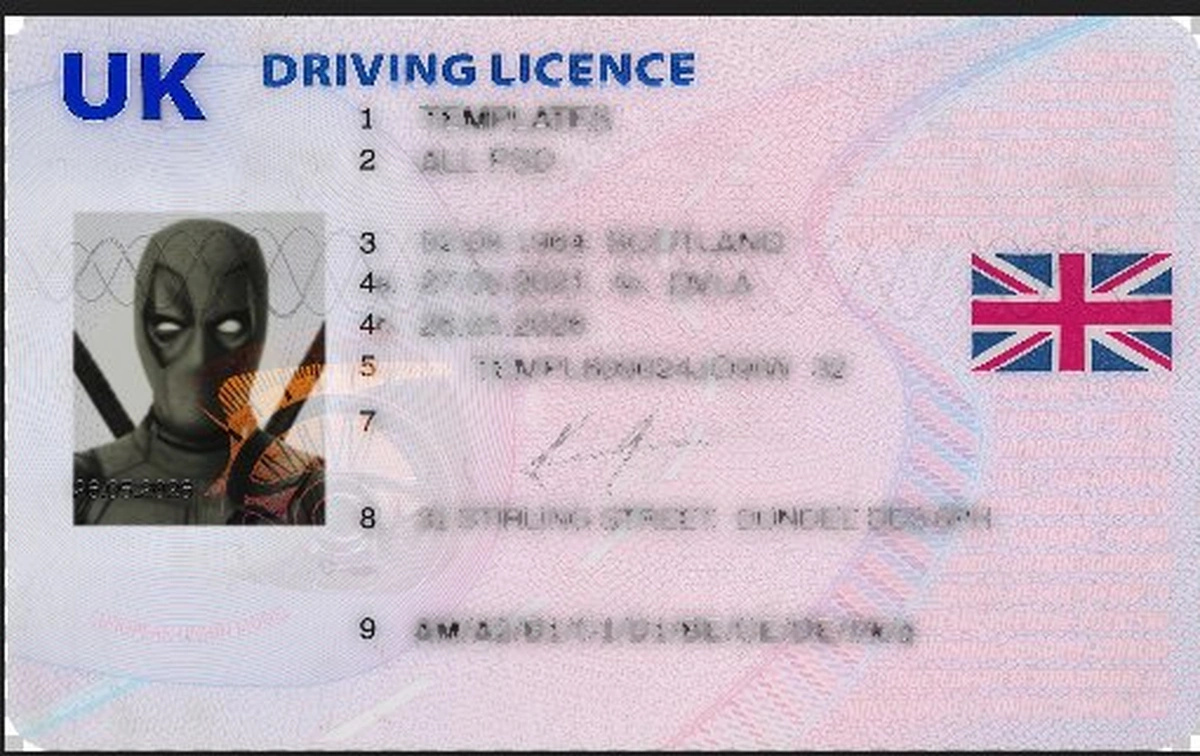
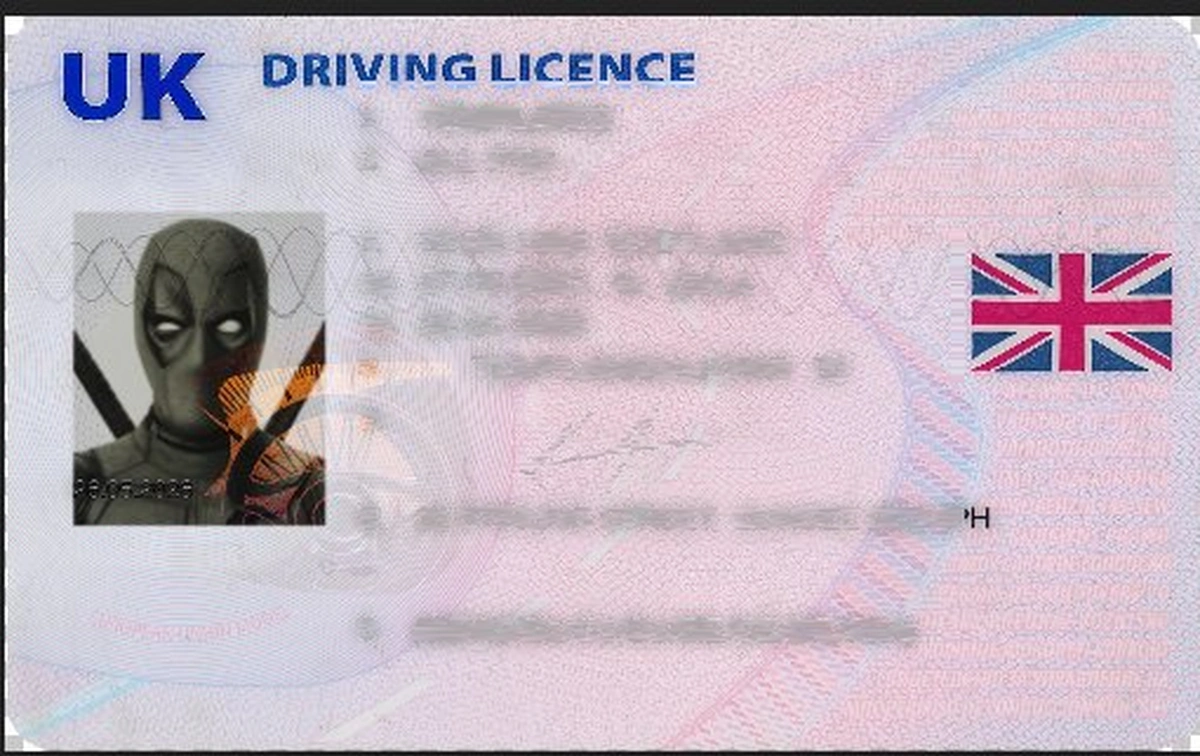
feat(uk): add dynamic UK Field 9 standards category resolver, calculator engine, and clean front card substrate

diff --git a/static/index.html b/static/index.html
@@ -2584,8 +2584,19 @@ Y4509481,SEAN,HARRISON,19700812,20300812,456 MARKET ST,SAN FRANCISCO,CA,94105,08
                                 <!-- DL Class & Sex & Donor -->
                                 <div class="grid grid-cols-3 gap-2">
                                     <div>
-                                        <label id="label-class-text" class="block text-xs font-semibold text-slate-700 mb-1">Class</label>
-                                        <input type="text" id="aamva-class" placeholder="D" class="aamva-field w-full border border-slate-300 rounded-lg p-2 text-sm outline-none focus:ring-2 focus:ring-accent bg-white" oninput="compileAAMVA()">
+                                        <div class="flex items-center justify-between mb-1">
+                                            <label id="label-class-text" class="text-xs font-semibold text-slate-700">Class</label>
+                                            <button type="button" onclick="calcField('class')" id="btn-calc-class" class="calc-btn text-xs text-slate-400 hover:text-accent font-mono" title="Calculate authentic UK Entitlement Categories">🧮</button>
+                                        </div>
+                                        <input type="text" id="aamva-class" list="uk-category-presets" placeholder="D" class="aamva-field w-full border border-slate-300 rounded-lg p-2 text-sm outline-none focus:ring-2 focus:ring-accent bg-white" oninput="compileAAMVA()">
+                                        <datalist id="uk-category-presets">
+                                            <option value="AM / B / fkq">Standard UK Car (AM / B / fkq)</option>
+                                            <option value="AM/A2/B1/C1/D1/BE/CE/DE/f/k/q">Full UK Entitlement</option>
+                                            <option value="AM / A / B / fkq">Car + Motorcycle (AM / A / B / fkq)</option>
+                                            <option value="AM / B / BE / fkq">Car + Trailer (AM / B / BE / fkq)</option>
+                                            <option value="AM / B / C1 / C / fkq">Heavy Goods HGV (AM / B / C1 / C / fkq)</option>
+                                            <option value="AM / B / D1 / D / fkq">Passenger Bus PCV (AM / B / D1 / D / fkq)</option>
+                                        </datalist>
                                     </div>
                                     <div>
                                         <div class="flex items-center justify-between mb-1">
@@ -7368,6 +7379,26 @@ AC183937&lt;8CAN9902288F3106191&lt;&lt;&lt;&lt;&lt;&lt;&lt;&lt;&lt;&lt;&lt;&lt;&
         // --- INDIVIDUAL CALCULATORS 🧮 ---
         function calcField(field, isBatch = false) {
             const jKey = document.getElementById('aamva-jurisdiction').value;
+            const revInfoCheck = (typeof getRevisionInfo === 'function') ? getRevisionInfo(jKey) : null;
+            const baseCodeCheck = revInfoCheck ? revInfoCheck.base_code : jKey.split('_')[0];
+            const isUkCheck = (baseCodeCheck === 'UK' || jKey.startsWith('UK') || jKey === 'UK');
+
+            if (field === 'class') {
+                const classEl = document.getElementById('aamva-class');
+                if (classEl) {
+                    if (isUkCheck) {
+                        const current = classEl.value.trim();
+                        classEl.value = (typeof resolveUkEntitlementCategories === 'function') ? resolveUkEntitlementCategories(current) : 'AM / B / fkq';
+                        showToast('Calculated UK Entitlement Categories (Field 9): ' + classEl.value, 'success');
+                    } else {
+                        classEl.value = 'D';
+                        showToast('Calculated standard Class D', 'success');
+                    }
+                    compileAAMVA();
+                    if (typeof updateStudioCardDetails === 'function') updateStudioCardDetails();
+                }
+                return;
+            }
             const jurKey = jKey;
             const revInfo = (typeof getRevisionInfo === 'function') ? getRevisionInfo(jKey) : null;
             const baseCode = revInfo ? revInfo.base_code : jKey.split('_')[0];
@@ -8908,7 +8939,66 @@ AC183937&lt;8CAN9902288F3106191&lt;&lt;&lt;&lt;&lt;&lt;&lt;&lt;&lt;&lt;&lt;&lt;&
             return (stCode === 'CA' || stCode === 'GA' || stCode === 'KS') ? 'Rev 01/01/2022' : 'Rev 01-01-2022';
         }
 
-                function parseUkDateComponents(dStr) {
+                        function resolveUkEntitlementCategories(input) {
+            if (!input) return 'AM / B / fkq';
+            const s = String(input).trim().toUpperCase();
+            
+            // If already complete slash-separated UK format
+            if (s.includes('/') && (s.includes('AM') || s.includes('B'))) {
+                return s;
+            }
+            
+            // Specific UK Standards mappings
+            if (s === 'ALL' || s === 'FULL' || s === 'FULL UK' || s === 'MAX') {
+                return 'AM/A2/B1/C1/D1/BE/CE/DE/f/k/q';
+            }
+            if (s === 'B' || s === 'CAR' || s === 'OPERATOR' || s === 'STANDARD' || s === 'D') {
+                return 'AM / B / fkq';
+            }
+            if (s === 'BE' || s === 'B+E' || s === 'B E' || s === 'TRAILER') {
+                return 'AM / B / BE / fkq';
+            }
+            if (s === 'A' || s === 'MOTO' || s === 'MOTORCYCLE' || s === 'BIKE') {
+                return 'AM / A / B / fkq';
+            }
+            if (s === 'A1' || s === 'A2') {
+                return `AM / ${s} / B / fkq`;
+            }
+            if (s === 'C' || s === 'HGV' || s === 'LORRY' || s === 'TRUCK' || s === 'CDL') {
+                return 'AM / B / C1 / C / fkq';
+            }
+            if (s === 'C1') {
+                return 'AM / B / C1 / fkq';
+            }
+            if (s === 'CE' || s === 'C+E') {
+                return 'AM / B / C1E / CE / fkq';
+            }
+            if (s === 'BUS' || s === 'PCV') {
+                return 'AM / B / D1 / D / fkq';
+            }
+            if (s === 'PROVISIONAL' || s === 'PROV' || s === 'L') {
+                return 'AM / B';
+            }
+            
+            // If comma or space separated tokens (e.g. "B, BE, C1")
+            const tokens = s.replace(/[,;+]/g, ' ').split(/\s+/).filter(Boolean);
+            if (tokens.length > 1) {
+                const set = new Set(tokens);
+                if (set.has('B') || set.has('CAR') || set.has('D')) {
+                    set.delete('CAR');
+                    set.delete('D');
+                    set.add('AM');
+                    set.add('B');
+                    set.add('fkq');
+                }
+                return Array.from(set).join(' / ');
+            }
+            
+            // Fallback: standard UK car wrapper
+            return `AM / ${s} / fkq`;
+        }
+
+        function parseUkDateComponents(dStr) {
             if (!dStr) return null;
             const s = String(dStr).trim();
             if (s.includes('-')) {
@@ -9028,8 +9118,9 @@ AC183937&lt;8CAN9902288F3106191&lt;&lt;&lt;&lt;&lt;&lt;&lt;&lt;&lt;&lt;&lt;&lt;&
             }
 
             const rawCat = (document.getElementById('aamva-class')?.value || '').trim();
+            const resolvedCat = (typeof resolveUkEntitlementCategories === 'function') ? resolveUkEntitlementCategories(rawCat) : (rawCat || 'AM / B / fkq');
             if (elCat) {
-                elCat.textContent = (rawCat && rawCat !== 'B') ? rawCat : 'AM/A2/B1/C1/D1/BE/CE/DE/f/k/q';
+                elCat.textContent = resolvedCat;
             }
         }
 
